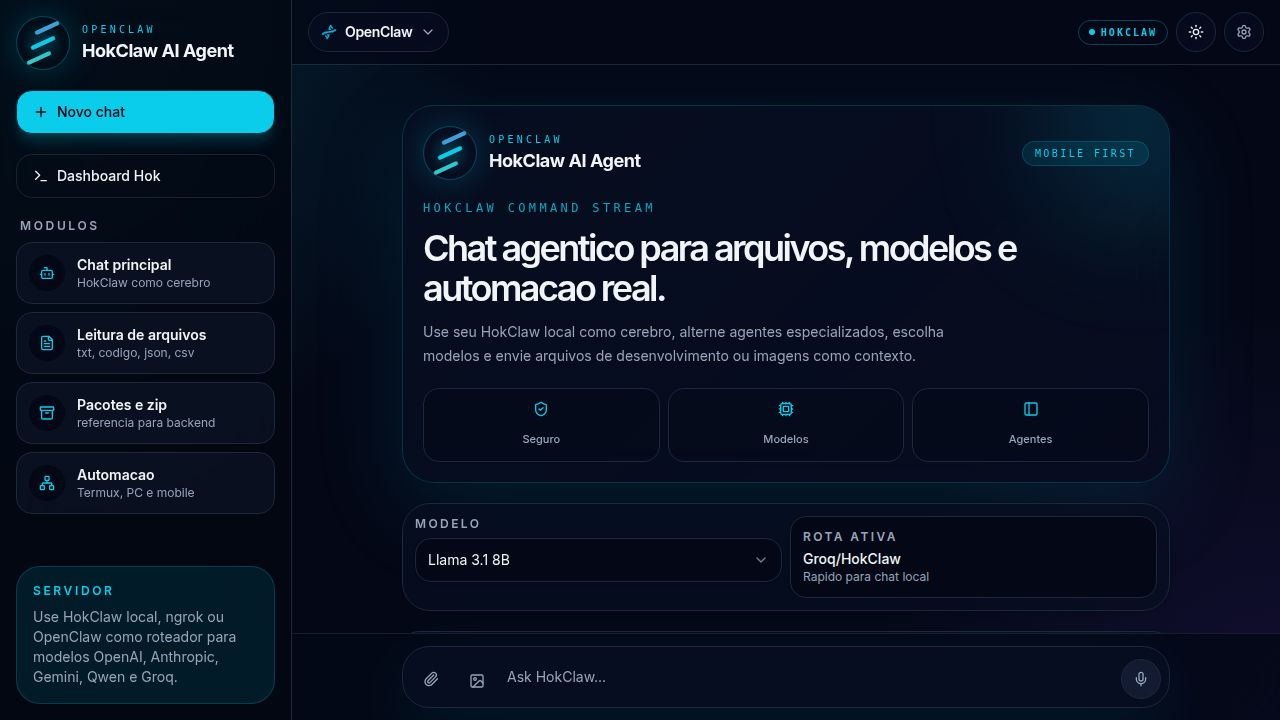
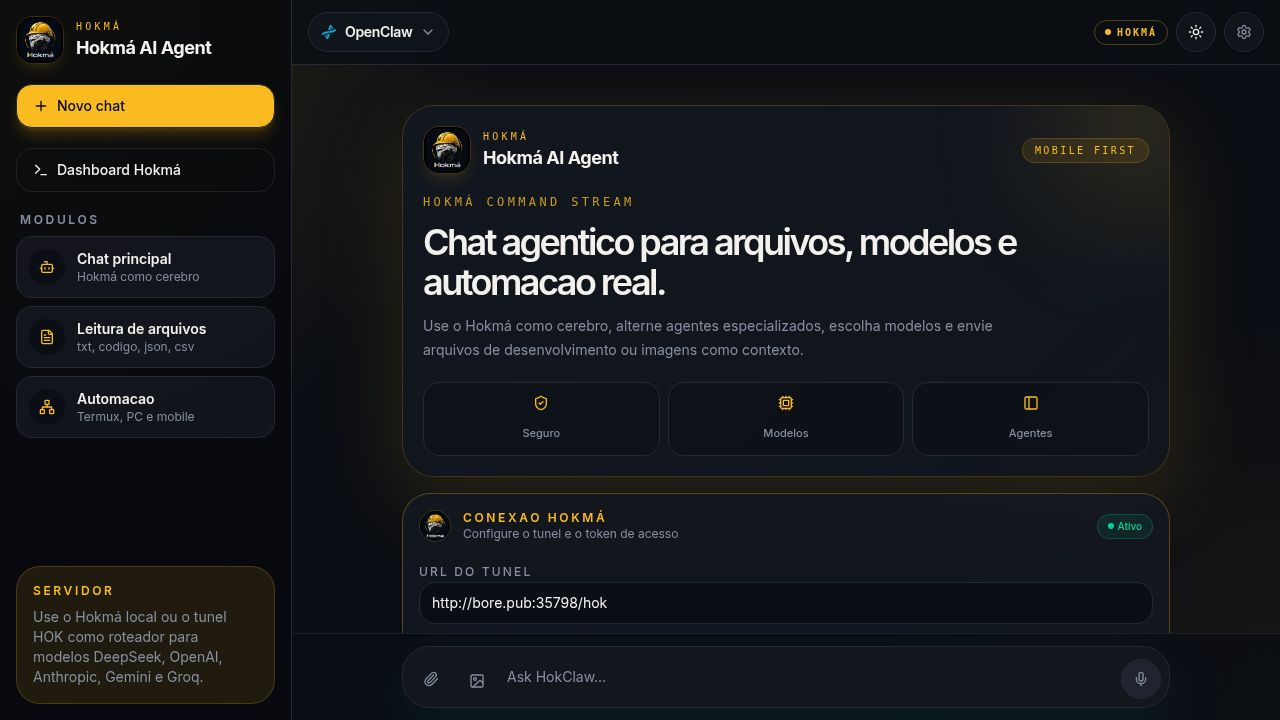
Update branding and add login functionality for the AI assistant
Integrates the Hokmá logo across the application, rebrands from HokClaw/OpenClaw to Hokmá, and introduces a new login panel with tunnel and token fields.

Replit-Commit-Author: Agent
Replit-Commit-Session-Id: 51db9ec7-16ce-40f6-afe9-649932f4fb24
Replit-Commit-Checkpoint-Type: full_checkpoint
Replit-Commit-Event-Id: 10e216a4-82c4-4471-af0f-9b8b02159892
Replit-Commit-Screenshot-Url: https://storage.googleapis.com/screenshot-production-us-central1/6725270e-0ec7-4f20-9644-4d9ae2854bf1/51db9ec7-16ce-40f6-afe9-649932f4fb24/z7kLzn9
Replit-Helium-Checkpoint-Created: true

diff --git a/artifacts/hokma-mobile-chat/src/pages/chat.tsx b/artifacts/hokma-mobile-chat/src/pages/chat.tsx
@@ -9,16 +9,20 @@ import { Button } from "@/components/ui/button";
 import { Badge } from "@/components/ui/badge";
 import { Select, SelectContent, SelectItem, SelectTrigger, SelectValue } from "@/components/ui/select";
 import { Sheet, SheetContent, SheetDescription, SheetHeader, SheetTitle, SheetTrigger } from "@/components/ui/sheet";
-import { Archive, Bot, Braces, Cpu, FileText, Menu, Moon, Network, PanelLeft, Plus, Radio, ShieldCheck, Sparkles, Sun, Terminal, UploadCloud, Zap } from "lucide-react";
+import { Bot, Braces, Check, Cpu, Eye, EyeOff, FileText, Menu, Moon, Network, PanelLeft, Plus, Radio, ShieldCheck, Sparkles, Sun, Terminal, UploadCloud, Zap } from "lucide-react";
 import { cn } from "@/lib/utils";
 
-function DnaLogo() {
+function HokmaLogo({ size = "md" }: { size?: "sm" | "md" }) {
   return (
-    <div className="flex items-center gap-3">
-      <div className="dna-orbit" />
+    <div className={cn("flex items-center gap-3", size === "sm" && "gap-2")}>
+      <img
+        src="/hokma-logo.png"
+        alt="Hokmá"
+        className={cn("rounded-2xl object-cover border border-primary/20 shadow-lg shadow-primary/10", size === "sm" ? "h-9 w-9" : "h-12 w-12")}
+      />
       <div>
-        <p className="font-mono text-[10px] uppercase tracking-[0.32em] text-primary">OpenClaw</p>
-        <h1 className="text-lg font-bold tracking-tight">HokClaw AI Agent</h1>
+        <p className="font-mono text-[10px] uppercase tracking-[0.32em] text-primary">Hokmá</p>
+        <h1 className={cn("font-bold tracking-tight", size === "sm" ? "text-base" : "text-lg")}>Hokmá AI Agent</h1>
       </div>
     </div>
   );
@@ -26,15 +30,14 @@ function DnaLogo() {
 
 function SidebarContent({ onNewChat }: { onNewChat: () => void }) {
   const items = [
-    { icon: Bot, title: "Chat principal", text: "HokClaw como cerebro" },
+    { icon: Bot, title: "Chat principal", text: "Hokmá como cerebro" },
     { icon: FileText, title: "Leitura de arquivos", text: "txt, codigo, json, csv" },
-    { icon: Archive, title: "Pacotes e zip", text: "referencia para backend" },
     { icon: Network, title: "Automacao", text: "Termux, PC e mobile" },
   ];
 
   return (
     <div className="flex h-full flex-col gap-5">
-      <DnaLogo />
+      <HokmaLogo />
       <Button onClick={onNewChat} className="h-11 justify-start gap-2 rounded-2xl bg-primary text-primary-foreground shadow-lg shadow-primary/20">
         <Plus className="h-4 w-4" />
         Novo chat
@@ -42,7 +45,7 @@ function SidebarContent({ onNewChat }: { onNewChat: () => void }) {
       <Link href="/dashboard">
         <Button variant="outline" className="h-11 w-full justify-start gap-2 rounded-2xl">
           <Terminal className="h-4 w-4" />
-          Dashboard Hok
+          Dashboard Hokmá
         </Button>
       </Link>
       <div className="space-y-2">
@@ -66,7 +69,7 @@ function SidebarContent({ onNewChat }: { onNewChat: () => void }) {
       </div>
       <div className="mt-auto rounded-3xl border border-primary/20 bg-primary/10 p-4">
         <p className="text-xs font-semibold uppercase tracking-[0.22em] text-primary">Servidor</p>
-        <p className="mt-2 text-sm leading-5 text-muted-foreground">Use HokClaw local, ngrok ou OpenClaw como roteador para modelos OpenAI, Anthropic, Gemini, Qwen e Groq.</p>
+        <p className="mt-2 text-sm leading-5 text-muted-foreground">Use o Hokmá local ou o tunel HOK como roteador para modelos DeepSeek, OpenAI, Anthropic, Gemini e Groq.</p>
       </div>
     </div>
   );
@@ -98,6 +101,12 @@ export default function ChatPage() {
   const scrollRef = useRef<HTMLDivElement>(null);
   const [theme, setTheme] = useState(() => localStorage.getItem("hokclaw_theme") || "dark");
 
+  // Login panel state
+  const [loginUrl, setLoginUrl] = useState(() => hokConfig.hokUrl);
+  const [loginToken, setLoginToken] = useState(() => hokConfig.hokToken);
+  const [showLoginToken, setShowLoginToken] = useState(false);
+  const [loginSaved, setLoginSaved] = useState(false);
+
   useEffect(() => {
     document.documentElement.classList.toggle("dark", theme === "dark");
     localStorage.setItem("hokclaw_theme", theme);
@@ -119,17 +128,25 @@ export default function ChatPage() {
       ? "Offline"
       : connectionStatus === "testing"
         ? "Testando"
-        : "HokClaw";
+        : "Hokmá";
 
   const quickCommands = [
     { icon: UploadCloud, label: "Ler arquivo", cmd: "Explique como voce vai interpretar arquivos anexados e quais formatos consegue usar agora." },
-    { icon: Braces, label: "Criar codigo", cmd: "Atue como Coder e crie um plano tecnico para evoluir o HokClaw com leitura de arquivos e imagens." },
-    { icon: Zap, label: "Automacao segura", cmd: "Desenhe um fluxo seguro para controlar celular e PC usando HokClaw, com permissoes claras." },
+    { icon: Braces, label: "Criar codigo", cmd: "Atue como Coder e crie um plano tecnico para evoluir o Hokmá com leitura de arquivos e imagens." },
+    { icon: Zap, label: "Automacao segura", cmd: "Desenhe um fluxo seguro para controlar celular e PC usando o Hokmá, com permissoes claras." },
   ];
+
+  const saveLogin = () => {
+    setHokConfig({ ...hokConfig, hokUrl: loginUrl.trim(), hokToken: loginToken.trim() });
+    setLoginSaved(true);
+    setTimeout(() => setLoginSaved(false), 2000);
+  };
+
+  const hokActive = !!hokConfig.hokUrl.trim();
 
   return (
     <div className="relative flex h-[100dvh] overflow-hidden bg-background text-foreground">
-      <div className="pointer-events-none absolute inset-0 bg-[radial-gradient(circle_at_top_left,hsl(var(--primary)/0.18),transparent_34%),radial-gradient(circle_at_bottom_right,hsl(260_90%_60%/0.12),transparent_28%)]" />
+      <div className="pointer-events-none absolute inset-0 bg-[radial-gradient(circle_at_top_left,hsl(var(--primary)/0.15),transparent_34%),radial-gradient(circle_at_bottom_right,hsl(30_80%_40%/0.08),transparent_28%)]" />
 
       <aside className="relative z-10 hidden w-[292px] shrink-0 border-r border-border bg-sidebar/80 p-4 text-sidebar-foreground backdrop-blur-2xl lg:block">
         <SidebarContent onNewChat={clearChat} />
@@ -146,8 +163,8 @@ export default function ChatPage() {
               </SheetTrigger>
               <SheetContent side="left" className="w-[310px] border-border bg-sidebar p-4 text-sidebar-foreground">
                 <SheetHeader className="sr-only">
-                  <SheetTitle>Menu HokClaw</SheetTitle>
-                  <SheetDescription>Navegacao e modulos do HokClaw</SheetDescription>
+                  <SheetTitle>Menu Hokmá</SheetTitle>
+                  <SheetDescription>Navegacao e modulos do Hokmá</SheetDescription>
                 </SheetHeader>
                 <SidebarContent onNewChat={clearChat} />
               </SheetContent>
@@ -183,24 +200,26 @@ export default function ChatPage() {
         <div ref={scrollRef} className="flex-1 overflow-y-auto px-4 py-4 scroll-smooth">
           <div className="mx-auto flex min-h-full max-w-3xl flex-col">
             {!hasConversation && (
-              <section className="flex min-h-full flex-col justify-end gap-5 pb-4 pt-6">
-                <div className="glass-panel relative overflow-hidden rounded-[2rem] border border-primary/20 p-5 shadow-[0_24px_90px_rgba(8,145,178,0.16)]">
-                  <div className="absolute right-[-60px] top-[-70px] h-44 w-44 rounded-full bg-primary/20 blur-3xl" />
+              <section className="flex min-h-full flex-col justify-end gap-4 pb-4 pt-6">
+
+                {/* Hero card */}
+                <div className="glass-panel relative overflow-hidden rounded-[2rem] border border-primary/20 p-5 shadow-[0_24px_90px_hsl(var(--primary)/0.14)]">
+                  <div className="absolute right-[-60px] top-[-70px] h-44 w-44 rounded-full bg-primary/15 blur-3xl" />
                   <div className="relative z-10 space-y-5">
                     <div className="flex items-center justify-between gap-4">
-                      <DnaLogo />
+                      <HokmaLogo />
                       <div className="hidden rounded-full border border-primary/20 bg-primary/10 px-3 py-1 text-[10px] font-mono uppercase tracking-[0.24em] text-primary sm:block">
                         Mobile first
                       </div>
                     </div>
 
                     <div className="space-y-3">
-                      <p className="font-mono text-xs uppercase tracking-[0.28em] text-primary/80">HokClaw Command Stream</p>
+                      <p className="font-mono text-xs uppercase tracking-[0.28em] text-primary/80">Hokmá Command Stream</p>
                       <h2 className="text-3xl font-semibold tracking-[-0.07em] sm:text-4xl">
                         Chat agentico para arquivos, modelos e automacao real.
                       </h2>
                       <p className="max-w-xl text-sm leading-6 text-muted-foreground">
-                        Use seu HokClaw local como cerebro, alterne agentes especializados, escolha modelos e envie arquivos de desenvolvimento ou imagens como contexto.
+                        Use o Hokmá como cerebro, alterne agentes especializados, escolha modelos e envie arquivos de desenvolvimento ou imagens como contexto.
                       </p>
                     </div>
 
@@ -222,6 +241,68 @@ export default function ChatPage() {
                   </div>
                 </div>
 
+                {/* LOGIN PANEL — Túnel + Token */}
+                <div className="rounded-[1.75rem] border border-primary/30 bg-card/80 p-4 shadow-sm backdrop-blur-xl">
+                  <div className="mb-4 flex items-center gap-3">
+                    <img src="/hokma-logo.png" alt="Hokmá" className="h-8 w-8 rounded-xl object-cover border border-primary/20" />
+                    <div>
+                      <p className="text-xs font-semibold uppercase tracking-[0.22em] text-primary">Conexao Hokmá</p>
+                      <p className="text-xs text-muted-foreground">Configure o tunel e o token de acesso</p>
+                    </div>
+                    {hokActive && (
+                      <span className="ml-auto flex items-center gap-1 rounded-full border border-emerald-500/30 bg-emerald-500/10 px-2.5 py-1 text-[10px] font-medium text-emerald-400">
+                        <span className="h-1.5 w-1.5 rounded-full bg-emerald-400" />
+                        Ativo
+                      </span>
+                    )}
+                  </div>
+                  <div className="space-y-3">
+                    <div className="space-y-1.5">
+                      <label className="text-xs font-medium text-muted-foreground uppercase tracking-[0.18em]">URL do Tunel</label>
+                      <input
+                        value={loginUrl}
+                        onChange={(e) => setLoginUrl(e.target.value)}
+                        className="w-full rounded-2xl border border-border bg-background px-3 py-2.5 text-sm text-foreground outline-none focus:border-primary placeholder:text-muted-foreground/50"
+                        placeholder="http://bore.pub:35798/hok"
+                      />
+                    </div>
+                    <div className="space-y-1.5">
+                      <label className="text-xs font-medium text-muted-foreground uppercase tracking-[0.18em]">Token Backend</label>
+                      <div className="relative">
+                        <input
+                          value={loginToken}
+                          onChange={(e) => setLoginToken(e.target.value)}
+                          type={showLoginToken ? "text" : "password"}
+                          className="w-full rounded-2xl border border-border bg-background px-3 py-2.5 pr-10 text-sm text-foreground outline-none focus:border-primary placeholder:text-muted-foreground/50"
+                          placeholder="X-HOK-TOKEN"
+                        />
+                        <button
+                          type="button"
+                          onClick={() => setShowLoginToken((v) => !v)}
+                          className="absolute right-3 top-1/2 -translate-y-1/2 text-muted-foreground hover:text-foreground"
+                        >
+                          {showLoginToken ? <EyeOff className="h-4 w-4" /> : <Eye className="h-4 w-4" />}
+                        </button>
+                      </div>
+                    </div>
+                    <Button
+                      type="button"
+                      onClick={saveLogin}
+                      className="w-full h-11 gap-2 rounded-2xl bg-primary text-primary-foreground font-semibold shadow-lg shadow-primary/20"
+                    >
+                      {loginSaved ? (
+                        <>
+                          <Check className="h-4 w-4" />
+                          Salvo com sucesso
+                        </>
+                      ) : (
+                        "Salvar conexao"
+                      )}
+                    </Button>
+                  </div>
+                </div>
+
+                {/* Model + quick commands */}
                 <div className="grid gap-3 rounded-[1.75rem] border border-border bg-card/70 p-3 shadow-sm backdrop-blur-xl">
                   <div className="grid gap-2 sm:grid-cols-[1fr_1fr]">
                     <div className="space-y-1.5">
@@ -279,7 +360,7 @@ export default function ChatPage() {
             {isStreaming && (
               <div className="mb-6 ml-11 flex items-center gap-2 text-xs text-muted-foreground">
                 <Sparkles className="h-3.5 w-3.5 text-primary" />
-                HokClaw pensando
+                Hokmá pensando
                 <span className="typing-dots inline-flex"><span /><span /><span /></span>
               </div>
             )}

diff --git a/artifacts/hokma-mobile-chat/src/hooks/use-chat.ts b/artifacts/hokma-mobile-chat/src/hooks/use-chat.ts
@@ -82,7 +82,7 @@ const DEFAULT_ENGINE_CONFIG: EngineConfig = {
 };
 
 export const AGENTS: Agent[] = [
-  { id: "openclaw", name: "OpenClaw", shortName: "Core", icon: "Dna", description: "Executor central, comandos naturais e orquestracao", color: "text-cyan-500" },
+  { id: "openclaw", name: "Hokmá", shortName: "Core", icon: "Dna", description: "Executor central, comandos naturais e orquestracao", color: "text-amber-400" },
   { id: "coder", name: "Coder", shortName: "Code", icon: "Code2", description: "Programacao, scripts, leitura de arquivos e debug", color: "text-blue-500" },
   { id: "devops", name: "DevOps", shortName: "Ops", icon: "ServerCog", description: "Termux, servidores, rede, deploy e automacao", color: "text-emerald-500" },
   { id: "architect", name: "Architect", shortName: "Plan", icon: "Network", description: "Arquitetura, produto e sistemas complexos", color: "text-violet-500" },
@@ -242,7 +242,7 @@ function createWelcomeMessage(): Message {
   return {
     id: "welcome",
     role: "assistant",
-    content: "HokClaw AI Agent online. Escolha um agente, selecione o modelo, anexe arquivos se precisar e envie seu comando.",
+    content: "Hokmá AI Agent online. Escolha um agente, selecione o modelo, anexe arquivos se precisar e envie seu comando.",
     timestamp: new Date(),
   };
 }

diff --git a/artifacts/hokma-mobile-chat/src/components/settings-drawer.tsx b/artifacts/hokma-mobile-chat/src/components/settings-drawer.tsx
@@ -10,7 +10,7 @@ import {
   DrawerTrigger,
 } from "@/components/ui/drawer";
 import { Button } from "@/components/ui/button";
-import { Settings, Trash2, Server, Key, Wifi, FlaskConical, Dna, Route, Eye, EyeOff, CheckCircle2, XCircle, Loader2 } from "lucide-react";
+import { Settings, Trash2, Server, Key, Wifi, FlaskConical, Route, Eye, EyeOff, CheckCircle2, XCircle, Loader2 } from "lucide-react";
 import type { ConnectionStatus, EngineConfig, HokConfig } from "@/hooks/use-chat";
 import { MODEL_OPTIONS } from "@/hooks/use-chat";
 import { Select, SelectContent, SelectItem, SelectTrigger, SelectValue } from "@/components/ui/select";
@@ -91,8 +91,8 @@ export function SettingsDrawer({
         <div className="mx-auto w-full max-w-sm">
           <DrawerHeader>
             <DrawerTitle className="flex items-center justify-center gap-2">
-              <Dna className="h-5 w-5 text-primary" />
-              Configuracao HokClaw
+              <img src="/hokma-logo.png" alt="Hokmá" className="h-6 w-6 rounded-lg object-cover" />
+              Configuracao Hokmá
             </DrawerTitle>
             <DrawerDescription>Conecte ao HOK Orquestrador, OpenRouter Visao ou ao servidor local.</DrawerDescription>
           </DrawerHeader>

diff --git a/artifacts/hokma-mobile-chat/src/pages/dashboard.tsx b/artifacts/hokma-mobile-chat/src/pages/dashboard.tsx
@@ -224,12 +224,12 @@ export default function DashboardPage() {
             <div className="absolute right-[-70px] top-[-80px] h-48 w-48 rounded-full bg-primary/15 blur-3xl" />
             <div className="relative z-10 space-y-5">
               <div className="flex items-center gap-4">
-                <div className="dna-orbit" />
+                <img src="/hokma-logo.png" alt="Hokmá" className="h-12 w-12 rounded-2xl object-cover border border-primary/20 shadow-lg shadow-primary/10" />
                 <div>
-                  <p className="font-mono text-xs uppercase tracking-[0.3em] text-primary">Hok Control HUD</p>
+                  <p className="font-mono text-xs uppercase tracking-[0.3em] text-primary">Hokmá Control HUD</p>
                   <h1 className="text-3xl font-bold tracking-[-0.07em]">Painel de ordens</h1>
                   <p className="mt-1 text-sm text-muted-foreground">
-                    {hokActive ? `Via HOK Tunnel · ${hokConfig.hokUrl.replace("http://", "").split("/")[0]}` : "Via HokClaw local"}
+                    {hokActive ? `Via HOK Tunnel · ${hokConfig.hokUrl.replace("http://", "").split("/")[0]}` : "Via Hokmá local"}
                   </p>
                 </div>
               </div>

diff --git a/artifacts/hokma-mobile-chat/src/components/chat-message.tsx b/artifacts/hokma-mobile-chat/src/components/chat-message.tsx
@@ -7,13 +7,9 @@ interface ChatMessageProps {
   message: Message;
 }
 
-function DnaMark() {
+function HokmaAvatar() {
   return (
-    <div className="dna-mark-small">
-      <span />
-      <span />
-      <span />
-    </div>
+    <img src="/hokma-logo.png" alt="Hokmá" className="h-full w-full rounded-2xl object-cover" />
   );
 }
 
@@ -55,7 +51,7 @@ export function ChatMessage({ message }: ChatMessageProps) {
           "flex h-9 w-9 shrink-0 items-center justify-center rounded-2xl border shadow-sm",
           isUser ? "border-border bg-secondary text-muted-foreground" : "border-primary/30 bg-primary/10 text-primary"
         )}>
-          {isUser ? <User className="h-4 w-4" /> : <DnaMark />}
+          {isUser ? <User className="h-4 w-4" /> : <HokmaAvatar />}
         </div>
 
         <div className={cn(

diff --git a/artifacts/hokma-mobile-chat/src/components/chat-input.tsx b/artifacts/hokma-mobile-chat/src/components/chat-input.tsx
@@ -209,7 +209,7 @@ export function ChatInput({ input, setInput, onSend, isStreaming }: ChatInputPro
             value={input}
             onChange={handleInput}
             onKeyDown={handleKeyDown}
-            placeholder={isReading ? "Lendo arquivos..." : "Ask HokClaw..."}
+            placeholder={isReading ? "Lendo arquivos..." : "Ask Hokmá..."}
             className="max-h-[132px] min-h-[42px] flex-1 resize-none bg-transparent px-1 py-3 text-sm text-foreground outline-none placeholder:text-muted-foreground"
             rows={1}
             disabled={isStreaming || isReading}
